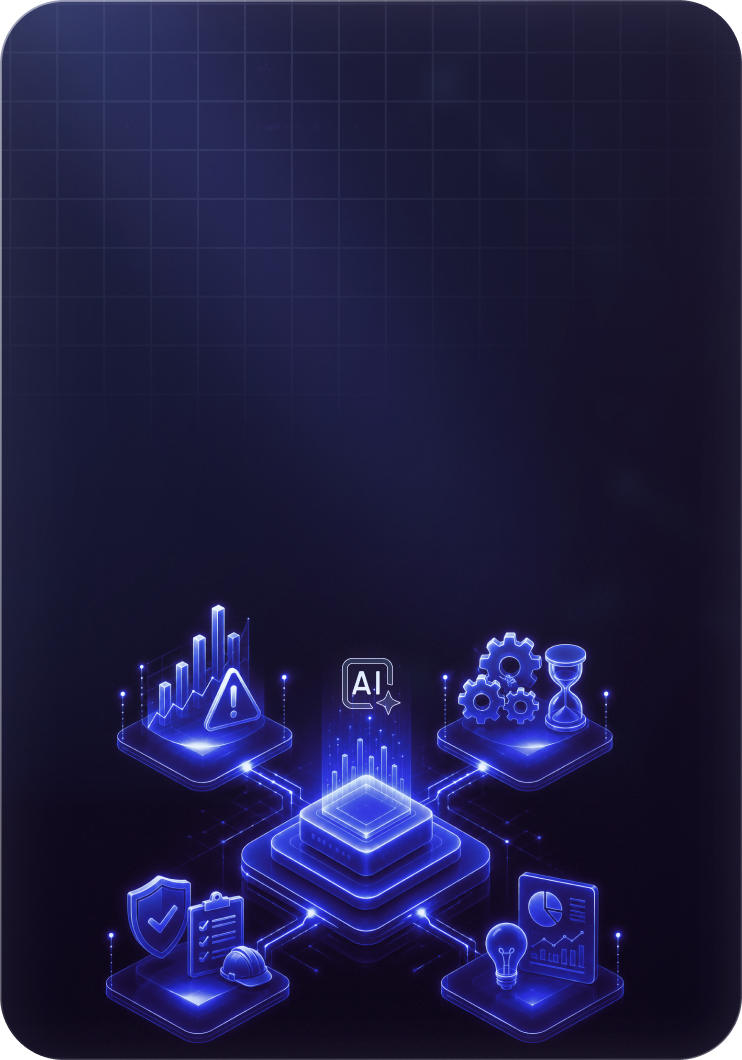
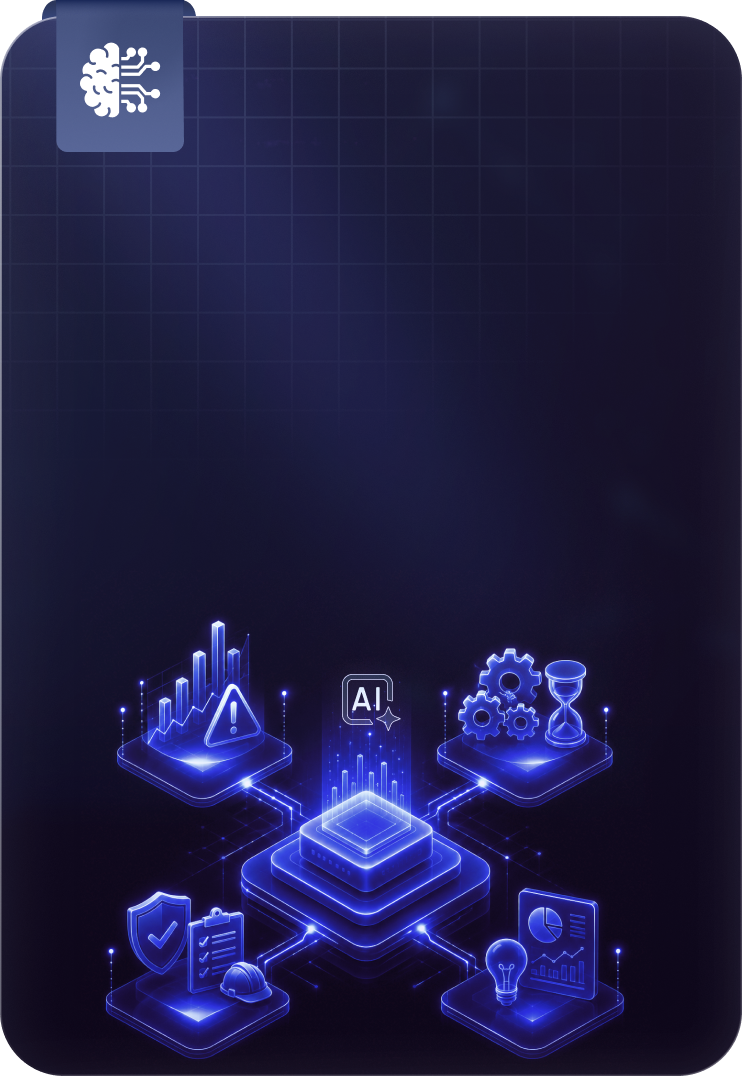
AI Plaform Page - Responsiveness fixes

diff --git a/src/components/ai-platform/ThreePillars/index.tsx b/src/components/ai-platform/ThreePillars/index.tsx
@@ -94,16 +94,13 @@ function DotBullet({ text }: Readonly<{ text: string }>) {
 
 function PillarCard({ icon, title, desc, bullets, image }: Readonly<Pillar>) {
   return (
-    <div className="flex relative h-[580px] flex-1 flex-col overflow-hidden rounded-[38px] border border-white/10 bg-transparent shadow-[0_0_30px_rgba(10,142,200,0.08)]">
-      {/* Card content */}
-      <div className="flex z-1 flex-col gap-4 p-6">
-        {/* Icon + title */}
-        <div className="flex items-center gap-3">
-          <div className="flex size-[44px] shrink-0 items-center justify-center rounded-[12px] border border-white/10 bg-[rgba(10,142,200,0.15)] text-[#4AC8FF]">
-            {icon}
-          </div>
+    <div className="flex relative h-[650px] w-full max-w-114 mx-auto lg:max-w-none lg:mx-0 lg:flex-1 flex-col overflow-hidden rounded-[38px] border border-white/10 bg-transparent shadow-[0_0_30px_rgba(10,142,200,0.08)]">
+        <div className="flex z-1 absolute top-10 left-[30%] items-center gap-3">
           <p className="text-[20px] font-bold leading-[24px] text-white">{title}</p>
         </div>
+      {/* Card content */}
+      <div className="flex absolute left-4 top-25 z-1 flex-col gap-4 p-6">
+        {/* title */}
 
         {/* Description */}
         <p className="text-[18px] font-normal leading-[22px] text-[#AEBBEC]">{desc}</p>
@@ -117,7 +114,7 @@ function PillarCard({ icon, title, desc, bullets, image }: Readonly<Pillar>) {
       </div>
 
       {/* Bottom illustration — full-bleed scene anchored to the card bottom */}
-      <div className="absolute top-0 mt-auto h-[580px] w-full">
+      <div className="absolute top-0 mt-auto h-[650px] w-full">
         <Image
           src={image}
           alt=""
@@ -212,10 +209,11 @@ export default function ThreePillars() {
           ))}
         </div>
 
-        {/* Bottom flow banner */}
-        <div className="mt-6 flex flex-col items-start gap-8 overflow-hidden rounded-[20px] border border-white/10 bg-[linear-gradient(90deg,#0D1628_0%,#111E35_100%)] p-5 sm:flex-row sm:items-center">
+        {/* Bottom flow banner — stays stacked until lg; the row layout needs the
+            full desktop width or the text gets crushed between icons and logo. */}
+        <div className="mt-6 flex flex-col items-start gap-8 overflow-hidden rounded-[20px] border border-white/10 bg-[linear-gradient(90deg,#0D1628_0%,#111E35_100%)] p-5 lg:flex-row lg:items-center">
           {/* Flow icons */}
-          <div className="flex shrink-0 items-center gap-4">
+          <div className="flex shrink-0 items-center gap-2 sm:gap-4">
             <FlowIcon type="link" />
             <ConnectsArrow />
             <FlowIcon type="gear" />
@@ -233,7 +231,7 @@ export default function ThreePillars() {
           </p>
 
           {/* V-Watch mark */}
-          <div className="ml-auto shrink-0">
+          <div className="shrink-0 lg:ml-auto">
             <Image
               src="/ai-platform/logo-rounded.png"
               alt="V-Watch"

diff --git a/src/components/ai-platform/PlatformVisibility/index.tsx b/src/components/ai-platform/PlatformVisibility/index.tsx
@@ -14,11 +14,14 @@ const STEPS: Step[] = [
 
 export default function PlatformVisibility() {
   return (
-    <section className="relative z-10 -mt-10 bg-white px-6 pb-20 pt-16 lg:px-[60px]">
-      {/* Curved top — dips the dark hero down into this white section */}
+    <section className="relative z-10 px-6 pb-20 pt-16 lg:px-[60px]">
+      {/* Curved top — carves the dark hero into a downward dip above this section.
+          Anchored to the section's top edge (bottom-full) so the curve position is
+          independent of section height — otherwise tall mobile layouts push the dip
+          down onto the heading. */}
       <svg
         aria-hidden
-        className="pointer-events-none absolute bottom-full left-0 h-10 w-full text-white lg:h-17.5"
+        className="pointer-events-none absolute bottom-full left-0 h-12 w-full text-[#F2F8FE] lg:h-[90px]"
         viewBox="0 0 1440 100"
         preserveAspectRatio="none"
         fill="none"

diff --git a/src/app/ai-platform/page.tsx b/src/app/ai-platform/page.tsx
@@ -14,7 +14,7 @@ const AI_PLATFORM_COLUMNS = [
 
 export default function AIPlatformPage() {
   return (
-    <div className="relative bg-[#030515]">
+    <div className="relative bg-[#F2F8FE]">
       <Navbar active="Platform" />
       <AIPlatformHero />
       <PlatformVisibility />

diff --git a/src/components/ai-platform/ConnectedOperations/index.tsx b/src/components/ai-platform/ConnectedOperations/index.tsx
@@ -101,7 +101,7 @@ export default function ConnectedOperations() {
   const current = MODULES[active]!;
 
   return (
-    <section className="relative bg-white px-6 pb-20 pt-16 lg:px-[60px]">
+    <section className="relative px-6 pb-20 pt-16 lg:px-[60px]">
       <div className="mx-auto w-full max-w-[1410px]">
         {/* Header */}
         <header className="flex max-w-[807px] flex-col gap-2.5">